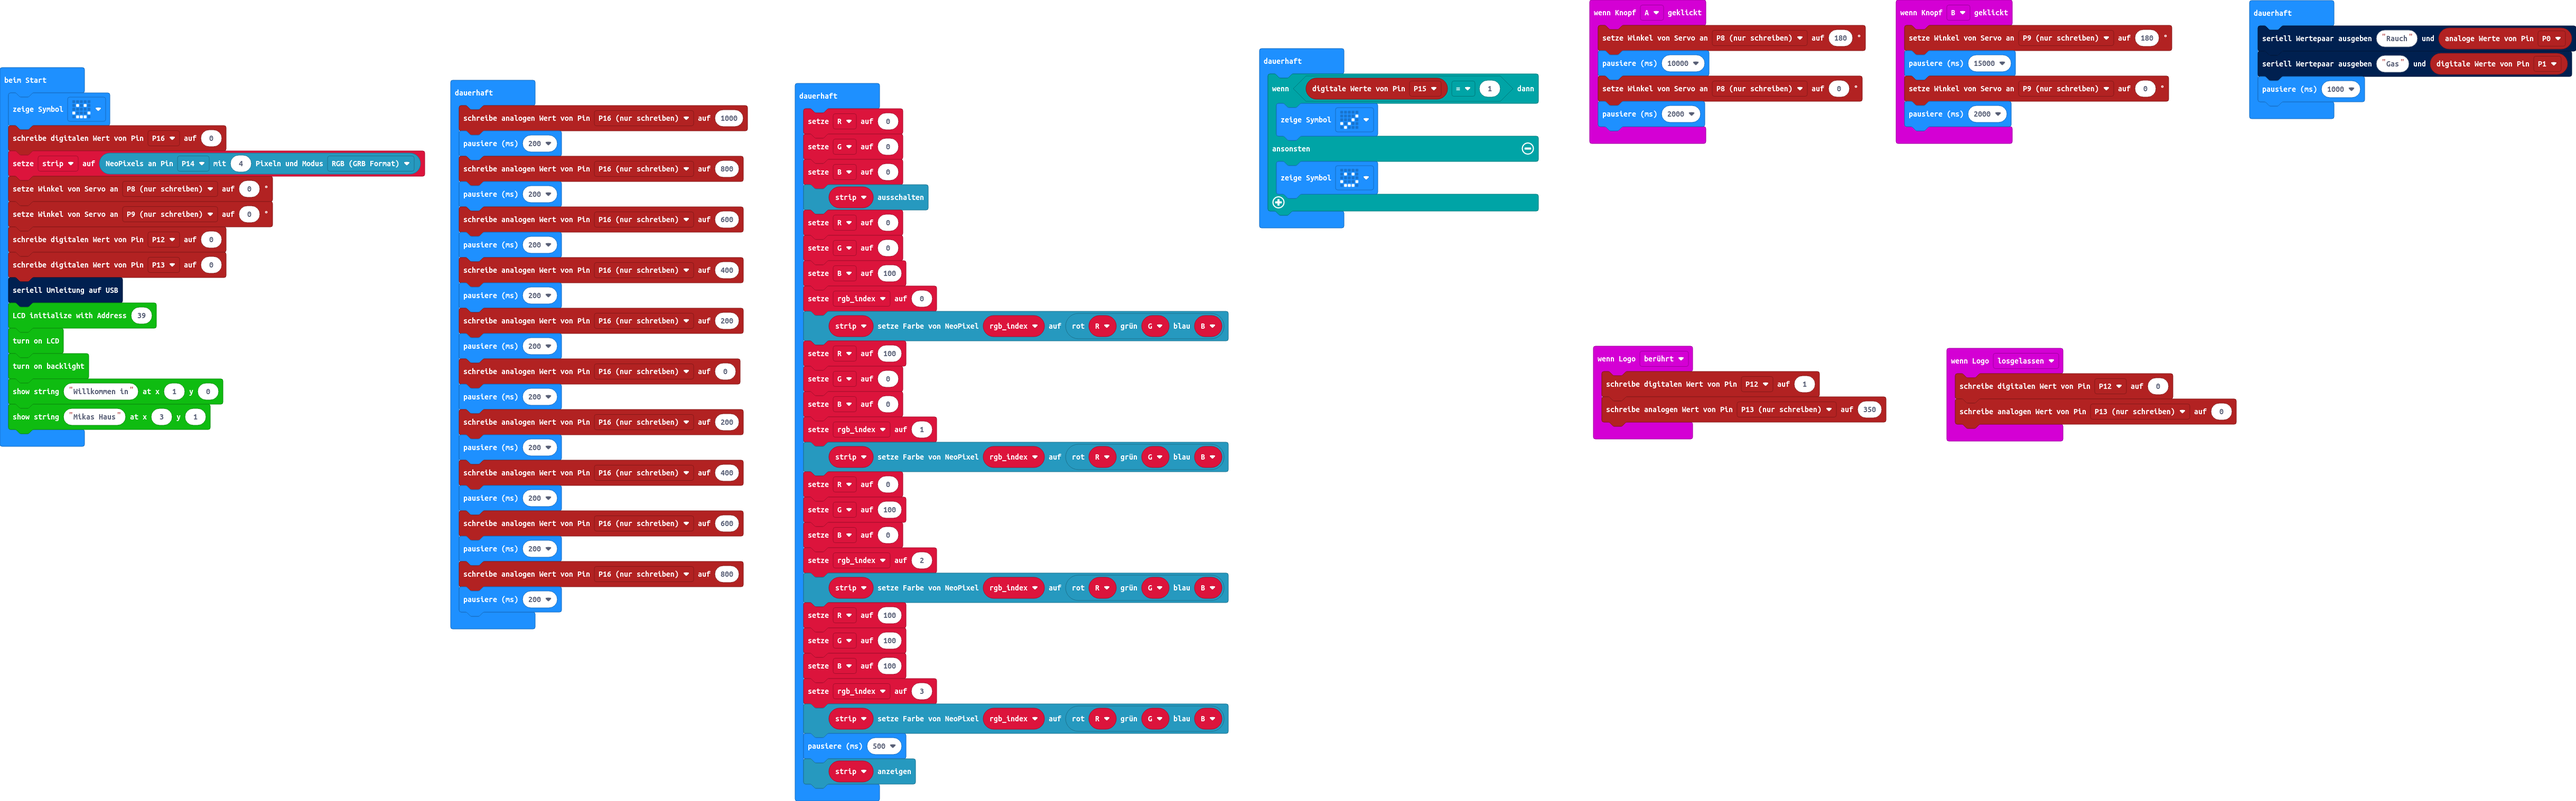
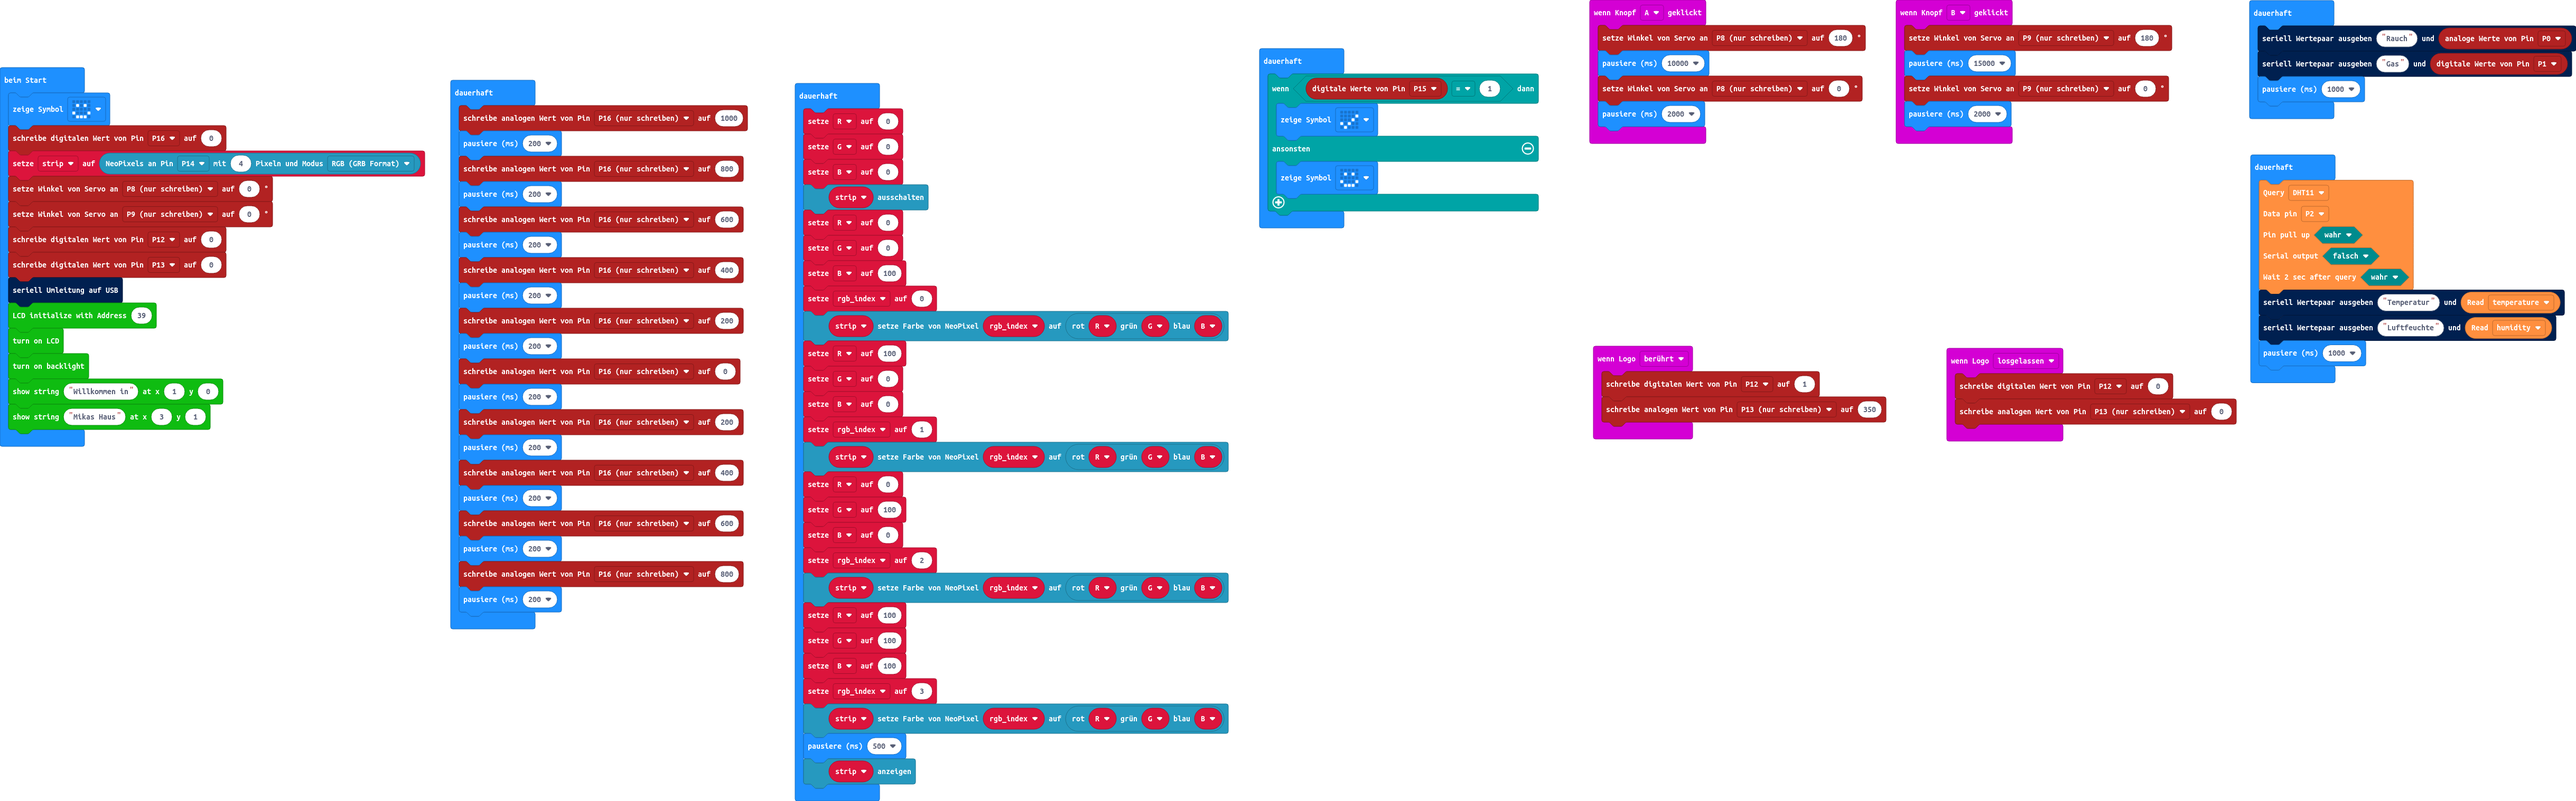
Temperatur und Luftfeuchtesensor eingebunden

Changed region(s): [[0.8728, 0.1858, 0.9975, 0.4954]]

diff --git a/main.ts b/main.ts
@@ -97,3 +97,15 @@ basic.forever(function () {
     basic.pause(500)
     strip.show()
 })
+basic.forever(function () {
+    dht11_dht22.queryData(
+    DHTtype.DHT11,
+    DigitalPin.P2,
+    true,
+    false,
+    true
+    )
+    serial.writeValue("Temperatur", dht11_dht22.readData(dataType.temperature))
+    serial.writeValue("Luftfeuchte", dht11_dht22.readData(dataType.humidity))
+    basic.pause(1000)
+})
